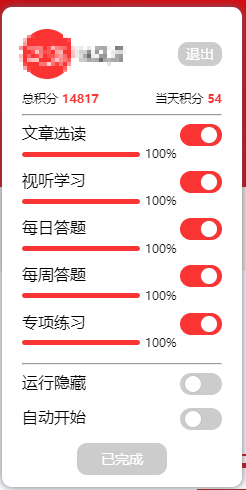
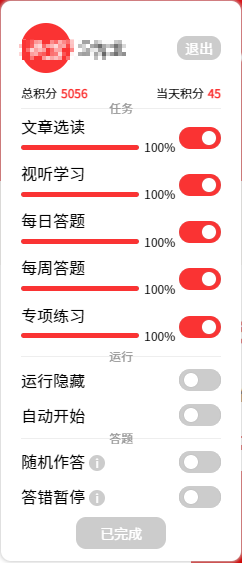
chore: modify README.md

Changed region(s): [[0.0, 0.0, 1.0, 1.0], [0.4339, 0.7653, 0.5496, 0.7959], [0.4339, 0.1837, 0.5496, 0.2143]]

diff --git a/README.md b/README.md
@@ -42,13 +42,15 @@
 
 ### 更新与维护 Update and Maintenance
 
-1. 优化答题逻辑，替换答题 API ，提高答题正确率。
+1. 更新提示弹窗界面，优化动画效果。
 
-2. 新增对于`Firefox`浏览器的支持（测试`Firefox`版本: `v104.0.1`）。
+2. 新增答题配置：`随机作答`以及`答错暂停`。
 
-3. 答题存在滑动验证问题，暂时无法解决。
+3. 功能面板分区配置，部分配置可查看详情。
 
-4. 发布基于 Node.js 以及 puppeteer 的全套解决方案，[Node.js 版](https://github.com/Xu22Web/tech-study-node) 解决了滑动验证问题等问题，实现全自动化。
+4. 答题存在滑动验证问题，暂时无法解决。
+
+5. 发布基于 Node.js 以及 puppeteer 的全套解决方案，[Node.js 版](https://github.com/Xu22Web/tech-study-node) 解决了滑动验证问题等问题，实现全自动化。
 
 ### 公告 announcement
 
